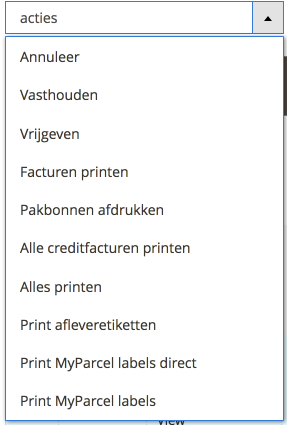
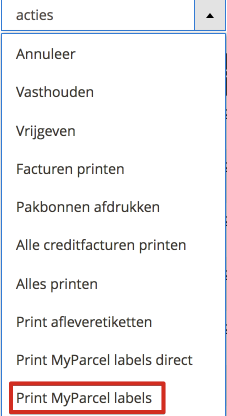
New pictures and text changes

diff --git a/index.html b/index.html
@@ -69,7 +69,6 @@
     <h1>Inhoud</h1>
     <div class="menu"></div>
     <div>
-
         <h1 id="1">1 Installatie en update</h1>
 
         <h2 id="1_1">1.1 Technische vereisten</h2>
@@ -88,8 +87,7 @@
         </ul>
 
         <h2 id="1_2">1.2 Installatie</h2>
-        <p>
-          De MyParcel Magento 2 extensie is niet te downloaden via de Magento Marketplace.<br></br>
+        <p>De MyParcel Magento 2 extensie is niet te downloaden via de Magento Marketplace.<br></br>
 
           Voor het installeren adviseren wij om een backup te maken van jouw Magento omgeving. De extensie is te verkrijgen via de terminal, raadpleeg jouw webbeheerder. Jouw webbeheerder kan het volgende commando in de root van de website (in bv. public_html) uitvoeren om de MyParcel extensie te installeren:<br>
           <span class="nice">composer require myparcelnl/magento</span><br>
@@ -112,8 +110,7 @@
           <span class="nice">rm -rf pub/static/* && rm -rf var/cache/* && rm -rf var/pagecache/* && rm -rf var/generation/* && rm -rf var/dir/* && rm -rf var/view_preprocessed/* && bin/magento cache:flush && bin/magento setup:upgrade && bin/magento setup:static-content:deploy && bin/magento indexer:reindex</span>
         </p>
         <h2 id="1_3">1.3 Update</h2>
-        <p>
-          Om een update uit te voeren kun je het volgende commando gebruiken:<br>
+        <p>Om een update uit te voeren kun je het volgende commando gebruiken:<br>
           <span class="nice">composer update myparcelnl/magento</span><br>
           <br>
           Om de cache te legen en andere benodigde acties van Magento 2 uit te voeren gebruik het volgende commando:
@@ -121,9 +118,7 @@
         </p>
 
         <h1 id="2">2 Configuratie</h1>
-        <p>
-
-            Ga naar het menu <span class="nice">Stores → Configuration → MyParcel</span> om de MyParcel extensie te
+        <p>Ga naar het menu <span class="nice">Stores → Configuration → MyParcel</span> om de MyParcel extensie te
             configureren.<br>
 
         </p>
@@ -133,16 +128,12 @@
         </p>
 
         <h2 id="2_1">2.1 Algemene instellingen</h2>
-
             <h3 id="2_1_1">2.1.1 API key instellen</h3>
-
             <p>Hier kun je jouw API Key invullen. Deze zijn nodig om de zendingen door te kunnen zetten naar MyParcel.
               Deze gegevens kun je vinden in jouw MyParcel account op <a href="https://backoffice.myparcel.nl/settings" target="_blank">backoffice.myparcel.nl</a>  en ga vervolgens naar <span class="nice">Instellingen -> Algemeen</p>
             <img src="media/api_key.png">
 
-            <h3 id="2_1_2">2.1.2 Print oriëntatie</h3>
-            <p>
-
+            <h3 id="2_1_2">2.1.2 Print oriëntatie</h3><p>
                 Kies de <span class="nice">Print oriëntatie</span>. Als je kiest voor A4 formaat zullen vier verzendlabels per A4 vel geprint
                 worden. Als je kiest voor A6 formaat zijn de verzendlabels geschikt voor het printen met een speciale
                 labelprinter zoals een Zebra of Dymo 4XL.<br></br>
@@ -151,13 +142,9 @@
         <h2 id="2_2">2.2 Standaard verzendinstellingen</h2>
             <p> Bij <span class="nice">Standaard verzendinstellingen</span> kun je configureren hoe je wil dat jouw zending standaard verwerkt worden wanneer
             je de MyParcel extensie voor Magento 2 gebruikt.
-
-
-
           <img src="media/MA2_standaard_verzendinstellingen.png">
 
-        <h3 id="2_2_1">2.2.1 Standaard  verzendopties</h3>
-        <p>
+        <h3 id="2_2_1">2.2.1 Standaard  verzendopties</h3><p>
             Op basis van de ingevulde orderwaarde worden de onderstaande opties geactiveerd. Voorbeeld: Indien je bij
             <span class="nice">Verzekerd tot € 250</span> bijvoorbeeld de waarde 100 invult, worden orders met een verkoopwaarde boven de € 100
             automatisch verzekerd tot een waarde van € 250. Deze logica is voor alle onderstaande opties in te stellen:
@@ -176,18 +163,15 @@
             Wanneer er bij 'Vanaf prijs' een 0 wordt ingevuld zal de optie ook actief zijn.
         </p>
 
-        <h1 id="3">3 Backend functionaliteiten</h1>
-        <p>
+        <h1 id="3">3 Backend functionaliteiten</h1>        <p>
             Om de backend functionaliteiten te kunnen gebruiken moet de MyParcel Magento 2 extensie ingeschakeld zijn.
         </p>
 
-        <h2 id="3_1">3.1 Verzending aanmaken</h2>
-        <p>
+        <h2 id="3_1">3.1 Verzending aanmaken</h2><p>
             Een MyParcel zending aanmaken kan op twee manieren:
         </p>
 
-        <h4>1. Batch methode in het bestellingenoverzicht.</h4>
-        <ol>
+        <h4>1. Batch methode in het bestellingenoverzicht.</h4>        <ol>
             <li>Selecteer de orders die je wilt exporteren naar MyParcel.</li><br></br>
             <img src="media/MA2_bestelling_overzicht.png"><br></br>
             <li>Kies in de actie balk <span class="nice">Print MyParcel labels</span></li><br>
@@ -198,14 +182,13 @@
             <li>Wanneer je de instellingen in stap 3 wil overslaan, bijvoorbeeld omdat je via de ‘standaard verzendinstellingen’
             al de juiste verzendopties aan jouw bestellingen hebt meegegeven, dan kan je via ‘Print MyParcel labels direct’
             je labels direct downloaden.</li><br></br>
-            <img src="media/MA2_actiemenu_bestellingen.png">
-          </ol><br></br>
+            <img src="media/MA2_actiemenu_bestellingen_2.png">
+          </ol><br>
 
 
-        <h4>2. Per bestelling als je een Magento zending aanmaakt.</h4>
-        <ol>
+        <h4>2. Per bestelling als je een Magento zending aanmaakt.</h4>        <ol>
             <li>Klik op de desbetreffende order.</li><br>
-            <img src="media/order.png"><br></br>
+            <img src="media/MA2_order.png"><br></br>
             <li>Kies rechtsboven voor de knop <span class="nice">Verzenden</span>.</li>
             <img src="media/MA2_order_detail.png"><br></br>
             <li>Rechts onderin verschijnt een vak. Hier kan je zowel het verzendtype aanpassen als de beschikbare verzendopties per verzendtype.</li><br></br>
@@ -213,10 +196,9 @@
             <li>Verstuur zending naar MyParcel via <span class="nice">Verzending Inboeken</span></li><br>
             <li>Vervolgens kun je meteen het label printen in de order door rechtsboven op de knop <span class="nice">Print Label</span> te klikken.</li><br>
             <img src="media/MA2_printlabel.png"><br></br>
-        </ol><br></br>
+        </ol>
 
-        <h2 id="3_2">3.2 Orderoverzicht</h2>
-        <p>
+        <h2 id="3_2">3.2 Orderoverzicht</h2>        <p>
           Om je altijd inzicht te bieden in de status van jouw zendingen zijn er 3 nieuwe kolommen automatisch toegevoegd aan het orderoverzicht nadat de MyParcel plugin is geïnstalleerd.
         </p>
             <img src="media/MA_trackstatus_tracknummer_actie.png"><br><br/>
@@ -228,8 +210,7 @@
             </ul>
               <img src="media/MA2_besteloverzicht_label_genereren.png">
 
-              <h2 id="3_3">3.3 Track&Trace e-mail template</h2>
-          <p>
+              <h2 id="3_3">3.3 Track&Trace e-mail template</h2>          <p>
               Wanneer er een orderbevestigingsmail naar de klant gestuurd wordt vanuit Magento neemt deze de barcode van de zending automatisch mee.
                Dit hoeft nu niet apart ingesteld te worden. Mocht je nu toch een een andere Track & Trace email willen willen versturen naar de klant vanuit Magento 2, ga dan naar
                <span class="nice">'Winkels' → 'Verkopen' → 'E-mails voor verkoop' → 'MyParcel barcode'</span> en stel hier je eigen template naar wens in.
@@ -237,14 +218,12 @@
           </p>
       </div>
 
-      <h1 id="4">4 Checkout instellingen</h2>
-        <p>
+      <h1 id="4">4 Checkout instellingen</h2>        <p>
             Op het tabblad 'Checkout instellingen' kun je alle gewenste instellingen toepassen die zichtbaar zijn in de checkout. Dit tabblad wordt onderverdeeld in 'Basis instellingen' , 'Bezorging', 'Brievenbuspakje' , 'Ochtendlevering', 'Avondlevering' , 'Ophalen' en 'Extra vroeg ophalen'
         </p>
 
         <h2 id="4_1">4.1 Basis instellingen</h2>
         <img src="media/MA2_basisinstellingen_checkout.png">
-
             <h3 id="4_1_1">4.1.1 Aantal dagen vooruit</h3>
             <p> Met de functie 'aantal dagen vooruit' kun je aangeven hoeveel dagen vooruit jouw klant een levermoment kan kiezen. Wanneer je kiest voor 7 dagen is laatste keuzemogelijkheid precies 7 dagen later. De dagen waarop er geen leveringen mogelijk zijn, worden niet weergegeven in de checkout. (zondag en maandag)</p>
                 <img src="media/MA2_aantal_dagen_vooruit.png">
@@ -260,14 +239,14 @@
                     <p> Bij de verzenddagen kun je invullen op welke dagen het voor jou mogelijk is pakketten in te leveren voor collectie op dezelfde dag. In de checkout wordt hier rekening mee gehouden qua keuzes die worden getoond aan jouw klant.</p>
   <img src="media/MA2_verzenddagen.png">
             <h3 id="4_1_4">4.1.4 Maandagbezorging</h3>
-                <p>Er kan ook gekozen worden om een pakket op maandag te laten bezorgen, houd er rekening mee dat je bij verzenddagen wel de zaterdag selecteert als verzenddag.<br> Let op: Maandaglevering is alleen mogelijk wanneer het laatste bestelmoment voor maandagbezorging op 15.30 is ingesteld en zaterdag het pakket voor 15.00 wordt geleverd bij één van de hiervoor bestemde <a href="https://blog.myparcel.nl/s/Jouw-pakketten-aanleveren-op-zaterdag.pdf" target="_blank">PostNL locaties</a>.</p>
+                <p>Er kan ook gekozen worden om een pakket op maandag te laten bezorgen, houd er rekening mee dat je bij verzenddagen wel de zaterdag selecteert als verzenddag.<br> Let op: Maandaglevering is alleen mogelijk wanneer het laatste bestelmoment voor maandagbezorging op 15.30 is ingesteld en zaterdag het pakket voor 15.00 wordt geleverd bij één van de hiervoor bestemde <a href="https://blog.myparcel.nl/s/Jouw-pakketten-aanleveren-op-zaterdag.pdf" target="_blank"><b>PostNL locaties</b></a>.</p>
               <img src="media/MA2_maandagbezorging.png">
 
             <h3 id="4_1_5">4.1.5 Vertraging</h3>
                   <p> Indien jij een langere verwerkingstijd nodig hebt om tot leveren over te gaan kun je dat hier aangeven. Hier zal rekening mee worden gehouden in het tonen van de beschikbare bezorgdagen in de checkout.</p>
                   <img src="media/MA2_vertraging.png">
-            <h3 id="4_1_6">4.1.6 Kleuren</h3>
 
+            <h3 id="4_1_6">4.1.6 Kleuren</h3>
             <p> Het is mogelijk om kleuren van het venster waarin de verzendopties worden weergegeven in de checkout geheel naar jouw stijl aan te passen.</p>
   <img src="media/MA2_kleuren_checkout.png">
         <h2 id="4_2">4.2 Bezorging</h2>
@@ -275,23 +254,23 @@
             <h3 id="4_2_1">4.2.1 Titel bezorging</h3>
             <p>Je kunt zelf kiezen welke titel jij de bezorging geeft. Het advies is om "PostNL" hierin te plaatsen.</p>
             <h3 id="4_2_2">4.2.2 Alleen huisadres</h3>
-            <p> Je kunt hiermee aangeven of jouw klanten hier zelf voor kunnen kiezen in de checkout. Indien jij dit wilt weergeven in de checkout kies dan voor <span class="nice">Ja</span>. Ook is het mogelijk om aan deze optie een eigen naam mee te geven, in het voorbeeld heet deze optie 'Alleen bij mij bezorgen genoemd'. Als laatste optie kun je er ook een meerprijs aan koppelen, in het voorbeeld kost deze optie €0.45 extra.</p>
+            <p> Je kunt hiermee aangeven of jouw klanten hier zelf voor kunnen kiezen in de checkout. Indien jij dit wilt weergeven in de checkout kies dan voor <span class="nice">Ja</span>. Ook is het mogelijk om aan deze optie een eigen naam mee te geven, in het voorbeeld heet deze optie 'Alleen bij mij bezorgen genoemd'. Als laatste optie kun je er ook een meerprijs aan koppelen, in het voorbeeld kost deze optie € 1.00 extra.</p>
             <h3 id="4_2_3">4.2.3 Handtekening voor ontvangst</h3>
-            <p>Je kunt hiermee aangeven of jouw klanten hier zelf voor kunnen kiezen in de checkout. Indien jij dit wilt weergeven in de checkout kies dan voor <span class="nice">Ja</span> Ook is het mogelijk om aan deze optie een eigen naam mee te geven, in het voorbeeld heet deze optie 'Handtekening voor ontvangst'. Als laatste optie kun je er ook een meerprijs aan koppelen, in het voorbeeld kost deze optie €0.45 extra.</p>
+            <p>Je kunt hiermee aangeven of jouw klanten hier zelf voor kunnen kiezen in de checkout. Indien jij dit wilt weergeven in de checkout kies dan voor <span class="nice">Ja</span> Ook is het mogelijk om aan deze optie een eigen naam mee te geven, in het voorbeeld heet deze optie 'Handtekening voor ontvangst'. Als laatste optie kun je er ook een meerprijs aan koppelen, in het voorbeeld kost deze optie € 1.00 extra.</p>
             <p> Er is ook een optie gemaakt voor een gecombineerde meerprijs voor de keuzes samen<span class="nice">Alleen bij mij bezorgen</span> en <span class="nice">Handtekening voor ontvangst</span> te bepalen. Je kunt zelf een prijs naar eigen inzicht invullen.</p>
 
         <h2 id="4_3">4.3 Brievenbuspakje instellingen</h2>
-        	        	<p>Het is mogelijk om automatisch brievenbuspakjes te laten selecteren afhankelijk van de instellingen. Dit kan op basis van gewicht of volume welke jij kunt instellen bij de productgegevens.</p>
 <img src="media/MA2_brievenbuspakje_instelling.png">
+<p>Het is mogelijk om automatisch brievenbuspakjes te laten selecteren afhankelijk van de instellingen. Dit kan op basis van gewicht of volume welke jij kunt instellen bij de productgegevens.</p>
 
-        <p>     <span class="nice">Producten -> catalogus -> Klik op bewerken</span><br><br>
+        <p><span class="nice">Producten -> catalogus -> Klik op bewerken</span><br><br>
         	<img src="media/MA2_catalogus_producten_bewerken.png"></p>
 			<p>Het is mogelijk om dit te tonen in de checkout waarbij jouw klant een keuze heeft. In dit geval zullen er meerdere verzendopties worden getoont, namelijk: Pakket, Brievenbuspakje en indien ingesteld de keuze om op te halen bij een PostNL locatie.
 			Wil je liever niet deze keuze aan jouw klant bieden, kun je de titel leeg laten. In dit geval zal er alleen een brievenbuspakje worden aangemaakt bij MyParcel maar wordt het gewone tarief berekend.</p>
 			    <p>Wanneer de optie 'Brievenbuspakje tonen met andere opties' op nee wordt gezet dan zal er in de checkout alleen de optie Brievenbuspakje te zien zijn.
-      Dit is vooral handig wanneer er gekozen wordt voor een produkt dat onder Brievenbuspakje valt en je de klant geen andere optie wil geven.</p>
+      Dit is vooral handig wanneer er gekozen wordt voor een produkt dat onder Brievenbuspakje valt en je de klant geen andere optie wil geven.</p><br><br>
 
-
+<img src="media/MA_checkoutbbp.png"></p>
 
         <h2 id="4_4">4.4 Ochtendlevering</h2>
           	<p>Het is mogelijk om jouw klanten de mogelijkheid te geven te kiezen voor ochtendlevering (bezorging tussen 08:00 en 12:00). Wanneer je deze optie hebt geactiveerd zal er een extra keuzemogelijkheid verschijnen in de checkout. Tevens is het mogelijk hier een meerprijs aan te koppelen. De prijs die hier wordt ingevuld zal bij het huidige tarief worden opgeteld. Jouw klant ziet in de checkout het totaalbedrag van de zending.
@@ -303,18 +282,14 @@
 <img src="media/MA2_avond_levering.png">
 
         <h2 id="4_6">4.6 Ophalen PostNL locatie</h2>
-
         	<p>Met deze optie kunnen jouw klanten kiezen om hun pakket bij een PostNL locatie op te halen. Deze locatie kunnen zij zelf kiezen in de checkout. Je kunt hier eventueel ook een meerprijs voor rekenen.</p>
     <img src="media/MA2_ophalen_bij_postNL.png">
             <p> Hieronder kun je een voorbeeld zien als de klant voor PostNL afhaallocatie kiest.</p>
           <img src="media/MA2_checkout_verzend_opties_2.png">
 
-
-
         <h2 id="4_7">4.7 Extra vroeg ophalen bij PostNL locatie</h2>
               	<p>Ook voor het ophalen op een PostNL locatie is er een mogelijkheid om dit specifiek in de ochtend te doen (mogelijk vanaf 08:30 in plaats vanaf 16:00). Ook hierbij heb je de keuze om een meerprijs toe te voegen.</p>
       <img src="media/MA2_extra_vroeg_postnl.png">
-
 
     <footer class="site-footer">
         <p>
